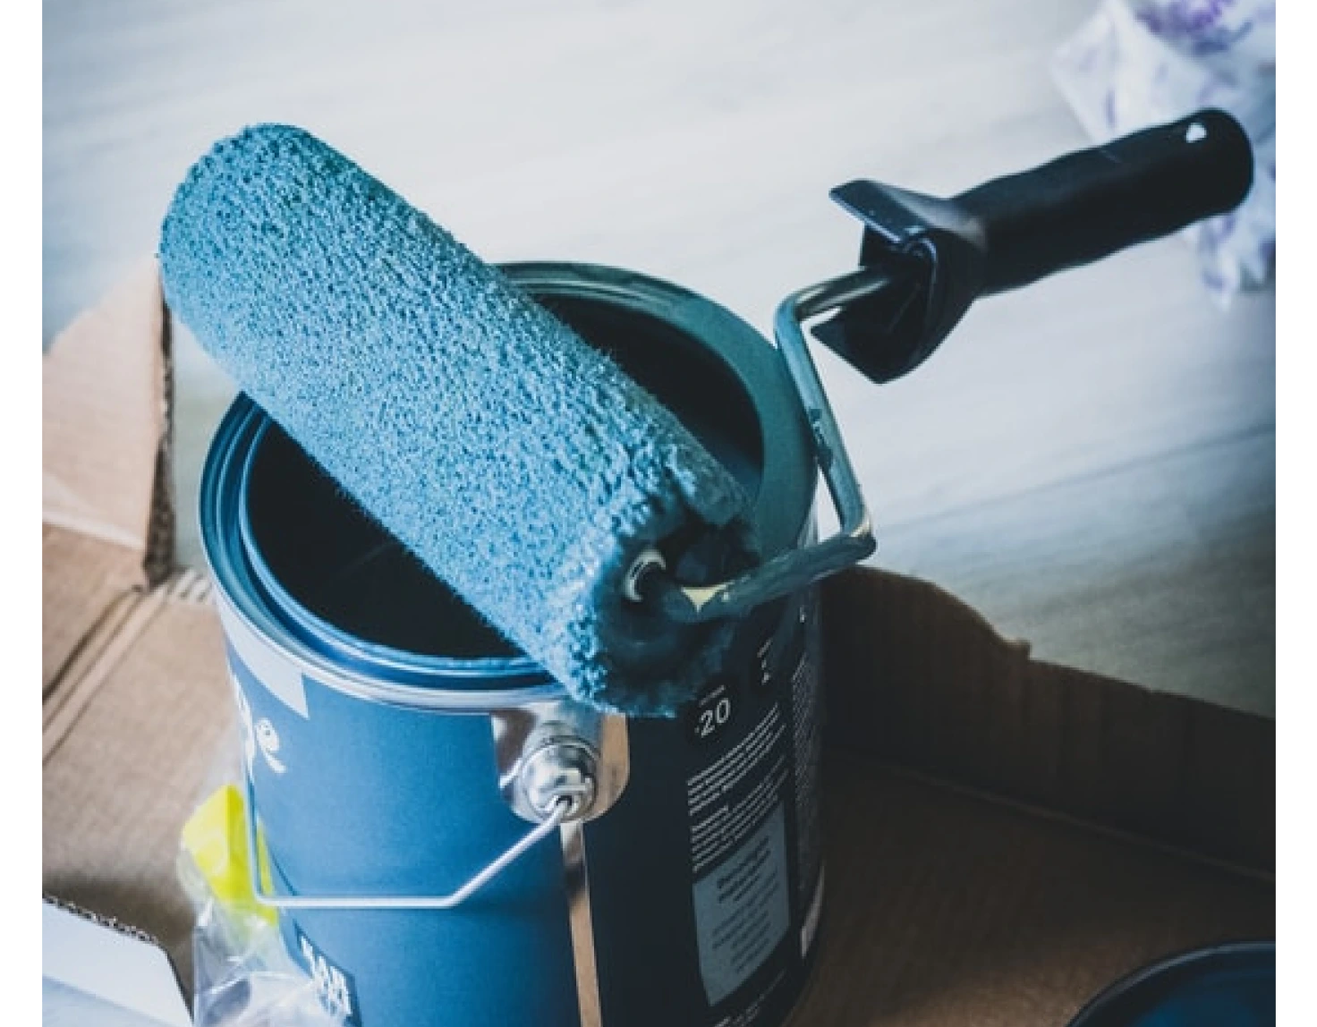
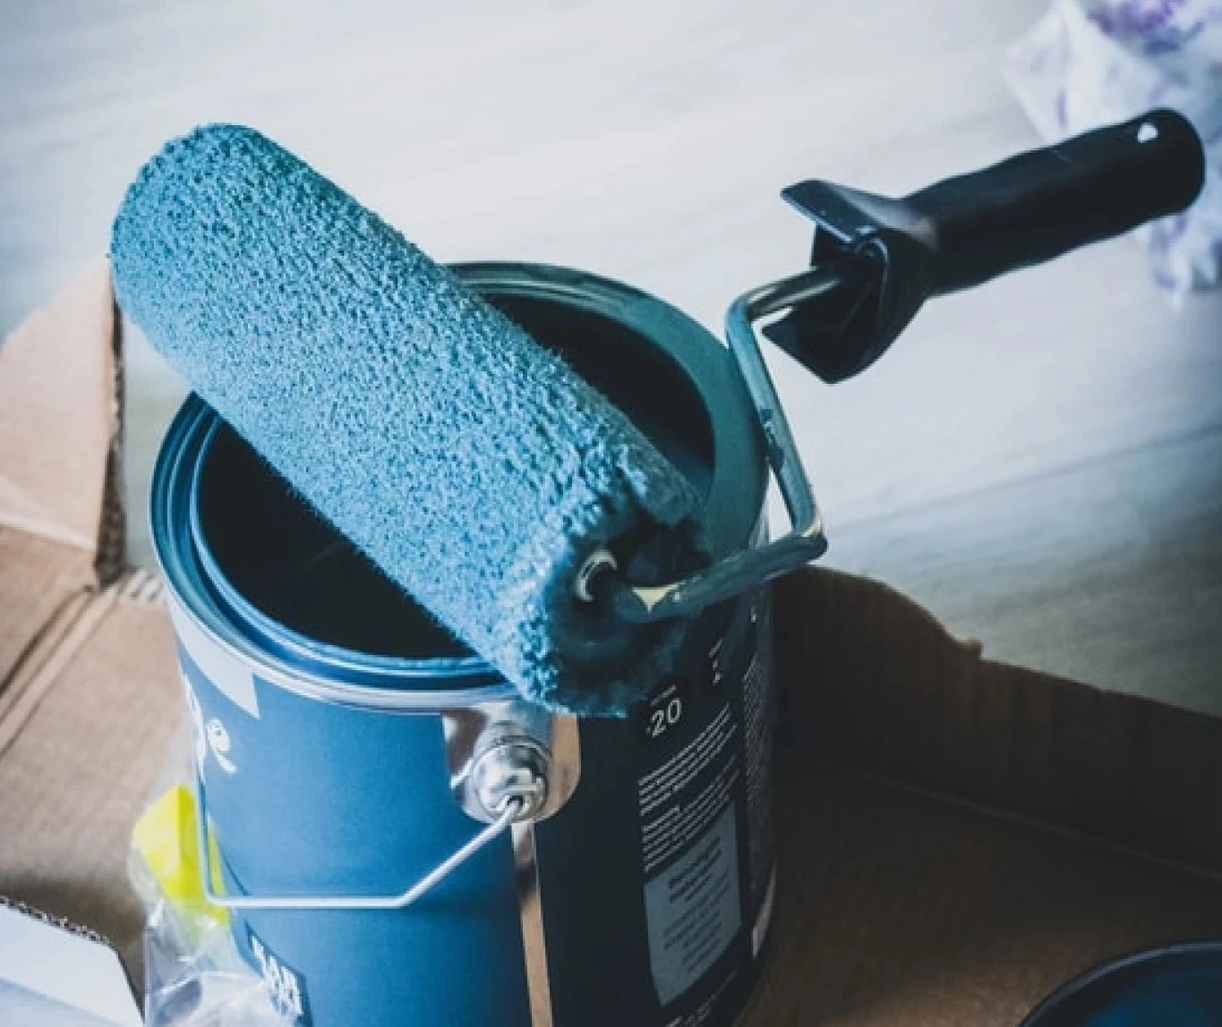
add image scale hover

diff --git a/src/components/Footer.jsx b/src/components/Footer.jsx
@@ -5,30 +5,30 @@ const Footer = () => {
         <div className='bg-gradient-to-r from-[#474747] to-[#222222] shadow-[0px_10px_15px_0px] shadow-[#9797971F]'>
             <div className='max-w-xxl mx-auto px-4 pb-20 pt-20 max-sm:pb-10 max-sm:pt-10'>
                 <div className='flex flex-wrap flex-row -mx-3 justify-between'>
-                    <div className='w-full  md:w-6/12 px-3 max-sm:text-center'>
+                    <div className='w-full  md:w-6/12 px-4 max-sm:text-center'>
                         <div >
                             <p className='font-poppins text-white font-semibold text-base leading-6'>General Project</p>
-                            <p className='font-dm-sans text-white font-normal text-base leading-7 py-8'>is a general contractor company based in Jakarta. More than 25 years of experience in building and carving out Indonesia's development.</p>
+                            <p className='font-dm-sans text-white font-normal text-base leading-7 py-8 max-sm:py-5'>is a general contractor company based in Jakarta. More than 25 years of experience in building and carving out Indonesia's development.</p>
                             <div className='flex items-center gap-[6px] max-sm:justify-center'>
-                                <a href=""><div className='w-[42px] h-[40px] bg-very-dark-blue rounded-full flex items-center justify-center hover:scale-110 transition-all duration-300'>
+                                <a href="https://www.google.com/" target='_blank'><div className='w-[42px] h-[40px] bg-very-dark-blue rounded-full flex items-center justify-center hover:scale-110 transition-all duration-300'>
                                     <svg xmlns="http://www.w3.org/2000/svg" width="16" height="16" fill="white" className="bi bi-google" viewBox="0 0 16 16">
                                         <path d="M15.545 6.558a9.4 9.4 0 0 1 .139 1.626c0 2.434-.87 4.492-2.384 5.885h.002C11.978 15.292 10.158 16 8 16A8 8 0 1 1 8 0a7.7 7.7 0 0 1 5.352 2.082l-2.284 2.284A4.35 4.35 0 0 0 8 3.166c-2.087 0-3.86 1.408-4.492 3.304a4.8 4.8 0 0 0 0 3.063h.003c.635 1.893 2.405 3.301 4.492 3.301 1.078 0 2.004-.276 2.722-.764h-.003a3.7 3.7 0 0 0 1.599-2.431H8v-3.08z" />
                                     </svg>
                                 </div>
                                 </a>
-                                <a href=""><div className='w-[42px] h-[40px] bg-very-dark-blue rounded-full flex items-center justify-center hover:scale-110 transition-all duration-300'>
+                                <a href="https://x.com/i/flow/login" target='_blank'><div className='w-[42px] h-[40px] bg-very-dark-blue rounded-full flex items-center justify-center hover:scale-110 transition-all duration-300'>
                                     <svg xmlns="http://www.w3.org/2000/svg" width="16" height="16" fill="white" className="bi bi-twitter" viewBox="0 0 16 16">
                                         <path d="M5.026 15c6.038 0 9.341-5.003 9.341-9.334q.002-.211-.006-.422A6.7 6.7 0 0 0 16 3.542a6.7 6.7 0 0 1-1.889.518 3.3 3.3 0 0 0 1.447-1.817 6.5 6.5 0 0 1-2.087.793A3.286 3.286 0 0 0 7.875 6.03a9.32 9.32 0 0 1-6.767-3.429 3.29 3.29 0 0 0 1.018 4.382A3.3 3.3 0 0 1 .64 6.575v.045a3.29 3.29 0 0 0 2.632 3.218 3.2 3.2 0 0 1-.865.115 3 3 0 0 1-.614-.057 3.28 3.28 0 0 0 3.067 2.277A6.6 6.6 0 0 1 .78 13.58a6 6 0 0 1-.78-.045A9.34 9.34 0 0 0 5.026 15" />
                                     </svg>
                                 </div>
                                 </a>
-                                <a href=""><div className='w-[42px] h-[40px] bg-very-dark-blue rounded-full flex items-center justify-center hover:scale-110 transition-all duration-300'>
+                                <a href="https://www.instagram.com/accounts/login/" target='_blank'><div className='w-[42px] h-[40px] bg-very-dark-blue rounded-full flex items-center justify-center hover:scale-110 transition-all duration-300'>
                                     <svg width="15" height="15" viewBox="0 0 15 15" fill="none" xmlns="http://www.w3.org/2000/svg">
                                         <path d="M7.33301 3.74023C5.33301 3.74023 3.73926 5.36523 3.73926 7.33398C3.73926 9.33398 5.33301 10.9277 7.33301 10.9277C9.30176 10.9277 10.9268 9.33398 10.9268 7.33398C10.9268 5.36523 9.30176 3.74023 7.33301 3.74023ZM7.33301 9.67773C6.05176 9.67773 4.98926 8.64648 4.98926 7.33398C4.98926 6.05273 6.02051 5.02148 7.33301 5.02148C8.61426 5.02148 9.64551 6.05273 9.64551 7.33398C9.64551 8.64648 8.61426 9.67773 7.33301 9.67773ZM11.8955 3.61523C11.8955 3.14648 11.5205 2.77148 11.0518 2.77148C10.583 2.77148 10.208 3.14648 10.208 3.61523C10.208 4.08398 10.583 4.45898 11.0518 4.45898C11.5205 4.45898 11.8955 4.08398 11.8955 3.61523ZM14.2705 4.45898C14.208 3.33398 13.958 2.33398 13.1455 1.52148C12.333 0.708984 11.333 0.458984 10.208 0.396484C9.05176 0.333984 5.58301 0.333984 4.42676 0.396484C3.30176 0.458984 2.33301 0.708984 1.48926 1.52148C0.676758 2.33398 0.426758 3.33398 0.364258 4.45898C0.301758 5.61523 0.301758 9.08398 0.364258 10.2402C0.426758 11.3652 0.676758 12.334 1.48926 13.1777C2.33301 13.9902 3.30176 14.2402 4.42676 14.3027C5.58301 14.3652 9.05176 14.3652 10.208 14.3027C11.333 14.2402 12.333 13.9902 13.1455 13.1777C13.958 12.334 14.208 11.3652 14.2705 10.2402C14.333 9.08398 14.333 5.61523 14.2705 4.45898ZM12.7705 11.459C12.5518 12.084 12.0518 12.5527 11.458 12.8027C10.5205 13.1777 8.33301 13.084 7.33301 13.084C6.30176 13.084 4.11426 13.1777 3.20801 12.8027C2.58301 12.5527 2.11426 12.084 1.86426 11.459C1.48926 10.5527 1.58301 8.36523 1.58301 7.33398C1.58301 6.33398 1.48926 4.14648 1.86426 3.20898C2.11426 2.61523 2.58301 2.14648 3.20801 1.89648C4.11426 1.52148 6.30176 1.61523 7.33301 1.61523C8.33301 1.61523 10.5205 1.52148 11.458 1.89648C12.0518 2.11523 12.5205 2.61523 12.7705 3.20898C13.1455 4.14648 13.0518 6.33398 13.0518 7.33398C13.0518 8.36523 13.1455 10.5527 12.7705 11.459Z" fill="white" />
                                     </svg>
                                 </div>
                                 </a>
-                                <a href=""><div className='w-[42px] h-[40px] bg-very-dark-blue rounded-full flex items-center justify-center hover:scale-110 transition-all duration-300'>
+                                <a href="https://www.linkedin.com/feed/" target='_blank'><div className='w-[42px] h-[40px] bg-very-dark-blue rounded-full flex items-center justify-center hover:scale-110 transition-all duration-300'>
                                     <svg width="15" height="15" viewBox="0 0 15 15" fill="none" xmlns="http://www.w3.org/2000/svg">
                                         <path d="M13.333 0.333984H1.30176C0.770508 0.333984 0.333008 0.802734 0.333008 1.36523V13.334C0.333008 13.8965 0.770508 14.334 1.30176 14.334H13.333C13.8643 14.334 14.333 13.8965 14.333 13.334V1.36523C14.333 0.802734 13.8643 0.333984 13.333 0.333984ZM4.55176 12.334H2.48926V5.67773H4.55176V12.334ZM3.52051 4.74023C2.83301 4.74023 2.30176 4.20898 2.30176 3.55273C2.30176 2.89648 2.83301 2.33398 3.52051 2.33398C4.17676 2.33398 4.70801 2.89648 4.70801 3.55273C4.70801 4.20898 4.17676 4.74023 3.52051 4.74023ZM12.333 12.334H10.2393V9.08398C10.2393 8.33398 10.2393 7.33398 9.17676 7.33398C8.08301 7.33398 7.92676 8.17773 7.92676 9.05273V12.334H5.86426V5.67773H7.83301V6.58398H7.86426C8.14551 6.05273 8.83301 5.49023 9.83301 5.49023C11.9268 5.49023 12.333 6.89648 12.333 8.67773V12.334Z" fill="white" />
                                     </svg>
@@ -37,37 +37,37 @@ const Footer = () => {
                             </div>
                         </div>
                     </div>
-                    <div className='w-full  md:w-5/12 px-3 max-md:pt-8'>
+                    <div className='w-full  md:w-5/12 px-3 max-md:pt-6'>
                         <div className='flex flex-wrap flex-row -mx-3'>
-                            <div className='w-full sm:w-5/12 px-3 max-sm:text-center'>
+                            <div className='w-full sm:w-5/12 px-4 max-sm:text-center'>
                                 <ul className='font-dm-sans text-white'>
-                                    <li className='font-bold text-lg pb-7'>Company</li>
-                                    <li className='pb-6 '><a href="#" className="font-normal text-base relative group">
+                                    <li className='font-bold text-lg pb-7 max-sm:pb-4'>Company</li>
+                                    <li className='pb-6 max-sm:pb'><a href="#" className="font-normal text-base relative group">
                                         About
                                         <div className="bg-gray h-[1px] absolute bottom-0 left-1/2 right-1/2 group-hover:left-0 group-hover:right-0 origin-center transition-all duration-300"></div>
                                     </a>
                                     </li>
-                                    <li className='pb-6'><a href="#" className="font-normal text-base relative group">
+                                    <li className='pb-6 max-sm:pb-4'><a href="#" className="font-normal text-base relative group">
                                         How it Works
                                         <div className="bg-gray h-[1px] absolute bottom-0 left-1/2 right-1/2 group-hover:left-0 group-hover:right-0 origin-center transition-all duration-300"></div>
                                     </a>
                                     </li>
-                                    <li className='pb-6'><a href="#" className="font-normal text-base relative group">
+                                    <li className='pb-6 max-sm:pb-4'><a href="#" className="font-normal text-base relative group">
                                         Term
                                         <div className="bg-gray h-[1px] absolute bottom-0 left-1/2 right-1/2 group-hover:left-0 group-hover:right-0 origin-center transition-all duration-300"></div>
                                     </a>
                                     </li>
-                                    <li className='pb-6'><a href="#" className="font-normal text-base relative group">
+                                    <li className=''><a href="#" className="font-normal text-base relative group">
                                         Privacy Policy
                                         <div className="bg-gray h-[1px] absolute bottom-0 left-1/2 right-1/2 group-hover:left-0 group-hover:right-0 origin-center transition-all duration-300"></div>
                                     </a>
                                     </li>
                                 </ul>
                             </div>
-                            <div className='w-full sm:w-5/12 px-3 max-sm:text-center max-sm:pt-5'>
+                            <div className='w-full sm:w-5/12 px-3 max-sm:text-center max-sm:pt-8'>
                                 <ul className='font-dm-sans text-white'>
-                                    <li className='font-bold text-lg pb-7'>More</li>
-                                    <li className='pb-6'><a href="#" className="font-normal text-base relative group">
+                                    <li className='font-bold text-lg pb-7 max-sm:pb-4'>More</li>
+                                    <li className='pb-6 max-sm:pb-4'><a href="#" className="font-normal text-base relative group">
                                         Documentation
                                         <div className="bg-gray h-[1px] absolute bottom-0 left-1/2 right-1/2 group-hover:left-0 group-hover:right-0 origin-center transition-all duration-300"></div>
                                     </a>

diff --git a/src/components/Make.jsx b/src/components/Make.jsx
@@ -3,7 +3,7 @@ import React from 'react'
 const Make = () => {
     return (
         <div className='font-poppins'>
-            <div className='max-w-xxl mx-auto px-4 pt-[74px] max-sm:pt-10 pb-16 max-sm:pb-10'>
+            <div className='max-w-xxl mx-auto px-4 pt-[74px] max-lg:pt-14 max-sm:pt-10 pb-16 max-lg:pb-14 max-sm:pb-10'>
                 <div className='max-lg:flex max-lg:justify-center'>
                     <svg width="90" height="9" viewBox="0 0 90 9" fill="none" xmlns="http://www.w3.org/2000/svg">
                         <rect width="90" height="9" fill="url(#paint0_linear_14_163)" />
@@ -22,9 +22,9 @@ const Make = () => {
                         your company and don't forget to ask via our email or our
                         customer service if you are interested in using our services</p>
                 </div>
-                <div className='flex flex-wrap flex-row -mx-3 pt-16 max-sm:pt-8 justify-center'>
-                    <div className='w-full md:w-1/2 lg:w-1/4 px-4 max-md:text-center'>
-                        <div className='max-md:flex max-md:justify-center'>
+                <div className='flex flex-wrap flex-row -mx-3 pt-16 max-lg:pt-8 max-sm:pt-8 justify-center'>
+                    <div className='w-full md:w-1/2 lg:w-1/4 px-4 max-lg:text-center hover:scale-[1.02] transition-all duration-300'>
+                        <div className='max-lg:flex max-lg:justify-center'>
                             <div className='w-[94px] h-[94px] bg-bluee rounded-full flex items-center justify-center '>
                                 <div className='w-[74px] h-[74px] bg-dark-blue rounded-full flex items-center justify-center'>
                                     <svg width="32" height="29" viewBox="0 0 32 29" fill="none" xmlns="http://www.w3.org/2000/svg">
@@ -36,9 +36,9 @@ const Make = () => {
                         <h2 className='text-2xl font-semibold py-6 max-sm:py-4 max-lg:text-xl text-dark'>Experience</h2>
                         <p className='font-medium text-lg leading-7 text-gray max-lg:text-base'>Our experience of 25 years of building and making achievements in the world of development</p>
                     </div>
-                    <div className='w-full md:w-1/2 lg:w-1/4 px-4 max-md:text-center max-md:mt-8'>
-                        <div className='max-md:flex max-md:justify-center'>
-                            <div className='w-[94px] h-[94px] bg-bluee rounded-full flex items-center justify-center'>
+                    <div className='w-full md:w-1/2 lg:w-1/4 px-4 max-lg:text-center max-md:mt-8 hover:scale-[1.02] transition-all duration-300 '>
+                        <div className='max-lg:flex max-lg:justify-center'>
+                            <div className='w-[94px] h-[94px] bg-bluee rounded-full flex items-center justify-center '>
                                 <div className='w-[74px] h-[74px] bg-dark-blue rounded-full flex items-center justify-center'>
                                     <svg width="35" height="35" viewBox="0 0 35 35" fill="none" xmlns="http://www.w3.org/2000/svg">
                                         <path d="M29.7529 3.28125H21.3516C21.0903 3.28106 20.8397 3.38428 20.6543 3.56836L3.8584 20.3643C3.49064 20.7338 3.28418 21.234 3.28418 21.7554C3.28418 22.2768 3.49064 22.7769 3.8584 23.1465L11.8565 31.1445C12.226 31.5123 12.7262 31.7188 13.2476 31.7188C13.7689 31.7188 14.2691 31.5123 14.6387 31.1445L31.4277 14.3555C31.6118 14.1701 31.715 13.9194 31.7149 13.6582V5.25C31.7161 4.99168 31.6663 4.73567 31.5682 4.49668C31.4702 4.2577 31.3258 4.04047 31.1435 3.85749C30.9611 3.67451 30.7444 3.5294 30.5057 3.43051C30.2671 3.33161 30.0113 3.28089 29.7529 3.28125V3.28125Z" stroke="white" strokeWidth="3" strokeLinecap="round" strokeLinejoin="round" />
@@ -52,11 +52,12 @@ const Make = () => {
                             very competitive without
                             reducing the quality of the
                             company's work in the
-                            slightest</p>
+                            slightest
+                        </p>
                     </div>
-                    <div className='w-full md:w-1/2 lg:w-1/4 px-4 max-md:text-center max-lg:mt-8'>
-                        <div className='max-md:flex max-md:justify-center'>
-                            <div className='w-[94px] h-[94px] bg-bluee rounded-full flex items-center justify-center'>
+                    <div className='w-full md:w-1/2 lg:w-1/4 px-4 max-lg:text-center max-lg:mt-8 hover:scale-[1.02] transition-all duration-300 '>
+                        <div className='max-lg:flex max-lg:justify-center'>
+                            <div className='w-[94px] h-[94px] bg-bluee rounded-full flex items-center justify-center '>
                                 <div className='w-[74px] h-[74px] bg-dark-blue rounded-full flex items-center justify-center'>
                                     <svg width="44" height="44" viewBox="0 0 44 44" fill="none" xmlns="http://www.w3.org/2000/svg">
                                         <path d="M40.6053 17.7031H29.6053C29.4162 17.7031 29.2615 17.8578 29.2615 18.0469V20.1094C29.2615 20.2984 29.4162 20.4531 29.6053 20.4531H40.6053C40.7943 20.4531 40.949 20.2984 40.949 20.1094V18.0469C40.949 17.8578 40.7943 17.7031 40.6053 17.7031ZM34.8475 23.5469H29.6053C29.4162 23.5469 29.2615 23.7016 29.2615 23.8906V25.9531C29.2615 26.1422 29.4162 26.2969 29.6053 26.2969H34.8475C35.0365 26.2969 35.1912 26.1422 35.1912 25.9531V23.8906C35.1912 23.7016 35.0365 23.5469 34.8475 23.5469ZM20.5088 13.8574H18.6482C18.3818 13.8574 18.167 14.0723 18.167 14.3387V24.9949C18.167 25.1496 18.24 25.2914 18.3646 25.3816L24.7627 30.048C24.9775 30.2027 25.2783 30.1598 25.433 29.9449L26.5373 28.4367V28.4324C26.692 28.2176 26.6447 27.9168 26.4299 27.7621L20.9857 23.8262V14.3387C20.99 14.0723 20.7709 13.8574 20.5088 13.8574Z" fill="white" />
@@ -67,10 +68,11 @@ const Make = () => {
                         </div>
                         <h2 className='text-2xl font-semibold py-6 max-sm:py-4 max-lg:text-xl text-dark'>On Time</h2>
                         <p className='font-medium text-lg leading-7 text-gray max-lg:text-base'>We prioritize the quality of
-                            our work and finish it on time</p>
+                            our work and finish it on time
+                        </p>
                     </div>
-                    <div className='w-full md:w-1/2 lg:w-1/4 px-4 max-md:text-center max-lg:mt-8'>
-                        <div className='max-md:flex max-md:justify-center'>
+                    <div className='w-full md:w-1/2 lg:w-1/4 px-4 max-lg:text-center max-lg:mt-8 hover:scale-[1.02] transition-all duration-300 '>
+                        <div className='max-lg:flex max-lg:justify-center'>
                             <div className='w-[94px] h-[94px] bg-bluee rounded-full flex items-center justify-center'>
                                 <div className='w-[74px] h-[74px] bg-dark-blue rounded-full flex items-center justify-center'>
                                     <svg width="38" height="38" viewBox="0 0 38 38" fill="none" xmlns="http://www.w3.org/2000/svg">
@@ -87,7 +89,7 @@ const Make = () => {
                             the best & quality materials
                             in its class.</p>
                     </div>
-                </div> 
+                </div>
             </div>
         </div>
     )

diff --git a/src/components/Excellent.jsx b/src/components/Excellent.jsx
@@ -24,7 +24,7 @@ const Excellent = () => {
 
     return (
         <div className="bg-light-gray font-poppins">
-            <div className="max-w-xxl mx-auto px-4 pt-20 max-sm:pt-10">
+            <div className="max-w-xxl mx-auto px-4 pt-20 max-sm:pt-10 max-lg:pt-14 max-sm:pb-0 pb-[71px] max-lg:pb-6">
                 <div className="flex items-center justify-between w-full max-lg:flex-col max-lg:text-center">
                     <h2 className="text-dark font-semibold text-xxxxl max-w-[304px] leading-xl max-lg:text-4xl max-lg:mx-auto max-lg:max-w-none">
                         Our Excellent Services
@@ -33,15 +33,15 @@ const Excellent = () => {
                         Check out our best service you can possibly order in building your company and don't forget to ask via our email or our customer service if you are interested in using our services.
                     </p>
                 </div>
-                <div className="flex flex-wrap flex-row -mx-3 pt-20 max-lg:pt-12 max-sm:pt-8 max-sm:pb-0 pb-[71px] justify-center">
+                <div className="flex flex-wrap flex-row -mx-3 pt-20 max-lg:pt-12 max-sm:pt-8  justify-center">
                     {CARDS.map((obj, index) => (
                         <div key={index} className="w-full sm:w-1/2 lg:w-1/3 px-6 pb-10 max-sm:text-center">
                             <div className="group">
-                                <div className="overflow-hidden">
+                                <div className="overflow-hidden border-[15px] border-white">
                                     <img
                                         src={obj.img}
                                         alt={obj.title}
-                                        className="border-[15px] border-white transition-transform duration-300 group-hover:scale-[1.02] object-cover"
+                                        className=" transition-transform duration-300 group-hover:scale-[1.04] object-cover"
                                     />
                                 </div>
                                 <h3 className="font-semibold text-xxxl leading-10 py-9 max-sm:py-5 max-lg:text-2xl text-dark">

diff --git a/src/components/Collection.jsx b/src/components/Collection.jsx
@@ -29,17 +29,17 @@ const Collection = () => {
     ];
     return (
         <div className='font-poppins'>
-            <div className='max-w-xxl mx-auto px-4 pt-[55px] max-sm:pt-10 pb-20 '>
+            <div className='max-w-xxl mx-auto px-4 pt-[55px] max-sm:pt-10 pb-20 max-sm:pb-10'>
                 <h2 className='text-dark text-xxxxl font-semibold leading-xxl max-w-[326px] max-lg:mx-auto max-lg:max-w-none max-lg:text-4xl max-lg:text-center'>
                     Our collection
                     best project
                 </h2>
                 <div className='flex flex-wrap flex-row -mx-3 pt-9 justify-center'>
                     {PROJECTS.map((obj , i) => (
-                        <div className='w-full sm:w-1/2 md:w-1/3 lg:w-1/4 px-3 pt-6'>
+                        <div className='w-full md:w-1/2 lg:w-1/4 px-3 pt-6' key={i}>
                             <div className='relative group overflow-y-hidden'>
-                                <img src={obj.image} alt="building-image" className='' />
-                                <div className='bg-white py-4 px-4 flex gap-7 max-lg:px-2 max-lg:py-2  items-center justify-center absolute bottom-0 group-hover:bottom-2 left-2 transition-transform duration-300 transform group-hover:translate-y-0 translate-y-[100%]'>
+                                <img src={obj.image} alt="building-image" className='w-full h-auto object-cover' />
+                                <div className='bg-white py-4 px-4 flex gap-5 items-center justify-center absolute bottom-0 group-hover:bottom-2 left-2 transition-transform duration-300 transform group-hover:translate-y-0 translate-y-[100%]'>
                                     <div>
                                         <p className='font-semibold text-base leading-6 text-dark max-lg:text-sm'>{obj.title}</p>
                                         <p className='font-medium text-xsm leading-4 text-gray'>{obj.status}</p>

diff --git a/src/components/News.jsx b/src/components/News.jsx
@@ -1,5 +1,5 @@
 import React, { useState } from "react";
-import Image1 from "../assets/images/sec-7-1-img.webp";
+import Image1 from "../assets/images/sec-7-1-img (1).webp";
 import Image2 from "../assets/images/sec-7-2-img.webp";
 import Image3 from "../assets/images/sec-7-3-img.webp";
 
@@ -38,12 +38,12 @@ const News = () => {
                         News & Update
                     </h2>
                 </div>
-                <div className="flex flex-wrap flex-row -mx-3 pt-9 justify-center">
+                <div className="flex flex-wrap flex-row -mx-3 pt-9 max-sm:pt-5 justify-center">
                     {NEWS.map((obj, index) => (
                         <div key={index} className="w-full sm:w-1/2 lg:w-1/3 px-4 pt-6">
-                            <div className="">
-                                <div>
-                                    <img src={obj.img} alt={obj.title} className="border-[15px] border-white shadow-[0px_10px_15px_0px] shadow-[#97979714]" />
+                            <div className="group">
+                                <div className="overflow-hidden border-[15px] border-white shadow-[0px_10px_15px_0px] shadow-[#97979714]"> 
+                                    <img src={obj.img} alt={obj.title} className="transition-transform duration-300 group-hover:scale-[1.03] object-cover" />
                                 </div>
                                 <div className="flex gap-4 items-center pr-10 py-4 max-sm:py-2">
                                     <p className="flex flex-col items-center text-xxxl text-dark font-semibold">

diff --git a/src/components/Story.jsx b/src/components/Story.jsx
@@ -24,8 +24,8 @@ const Story = () => {
                         </div>
                     </div>
                     <div className='w-full lg:w-1/2 px-4 max-lg:pt-8'>
-                        <div className='max-lg:flex max-lg:justify-center'>
-                            <img src={Image1} alt="building-image" className="border-[15px] border-white shadow-[0px_10px_15px_0px] shadow-[#9797971F] max-lg:w-[500px]" />
+                        <div className='max-lg:flex max-lg:justify-center border-[15px] border-white shadow-[0px_10px_15px_0px] shadow-[#9797971F] overflow-hidden group'>
+                            <img src={Image1} alt="building-image" className=" max-lg:w-[500px] transition-transform duration-300 group-hover:scale-[1.03]" />
                         </div>
                     </div>
                 </div>
